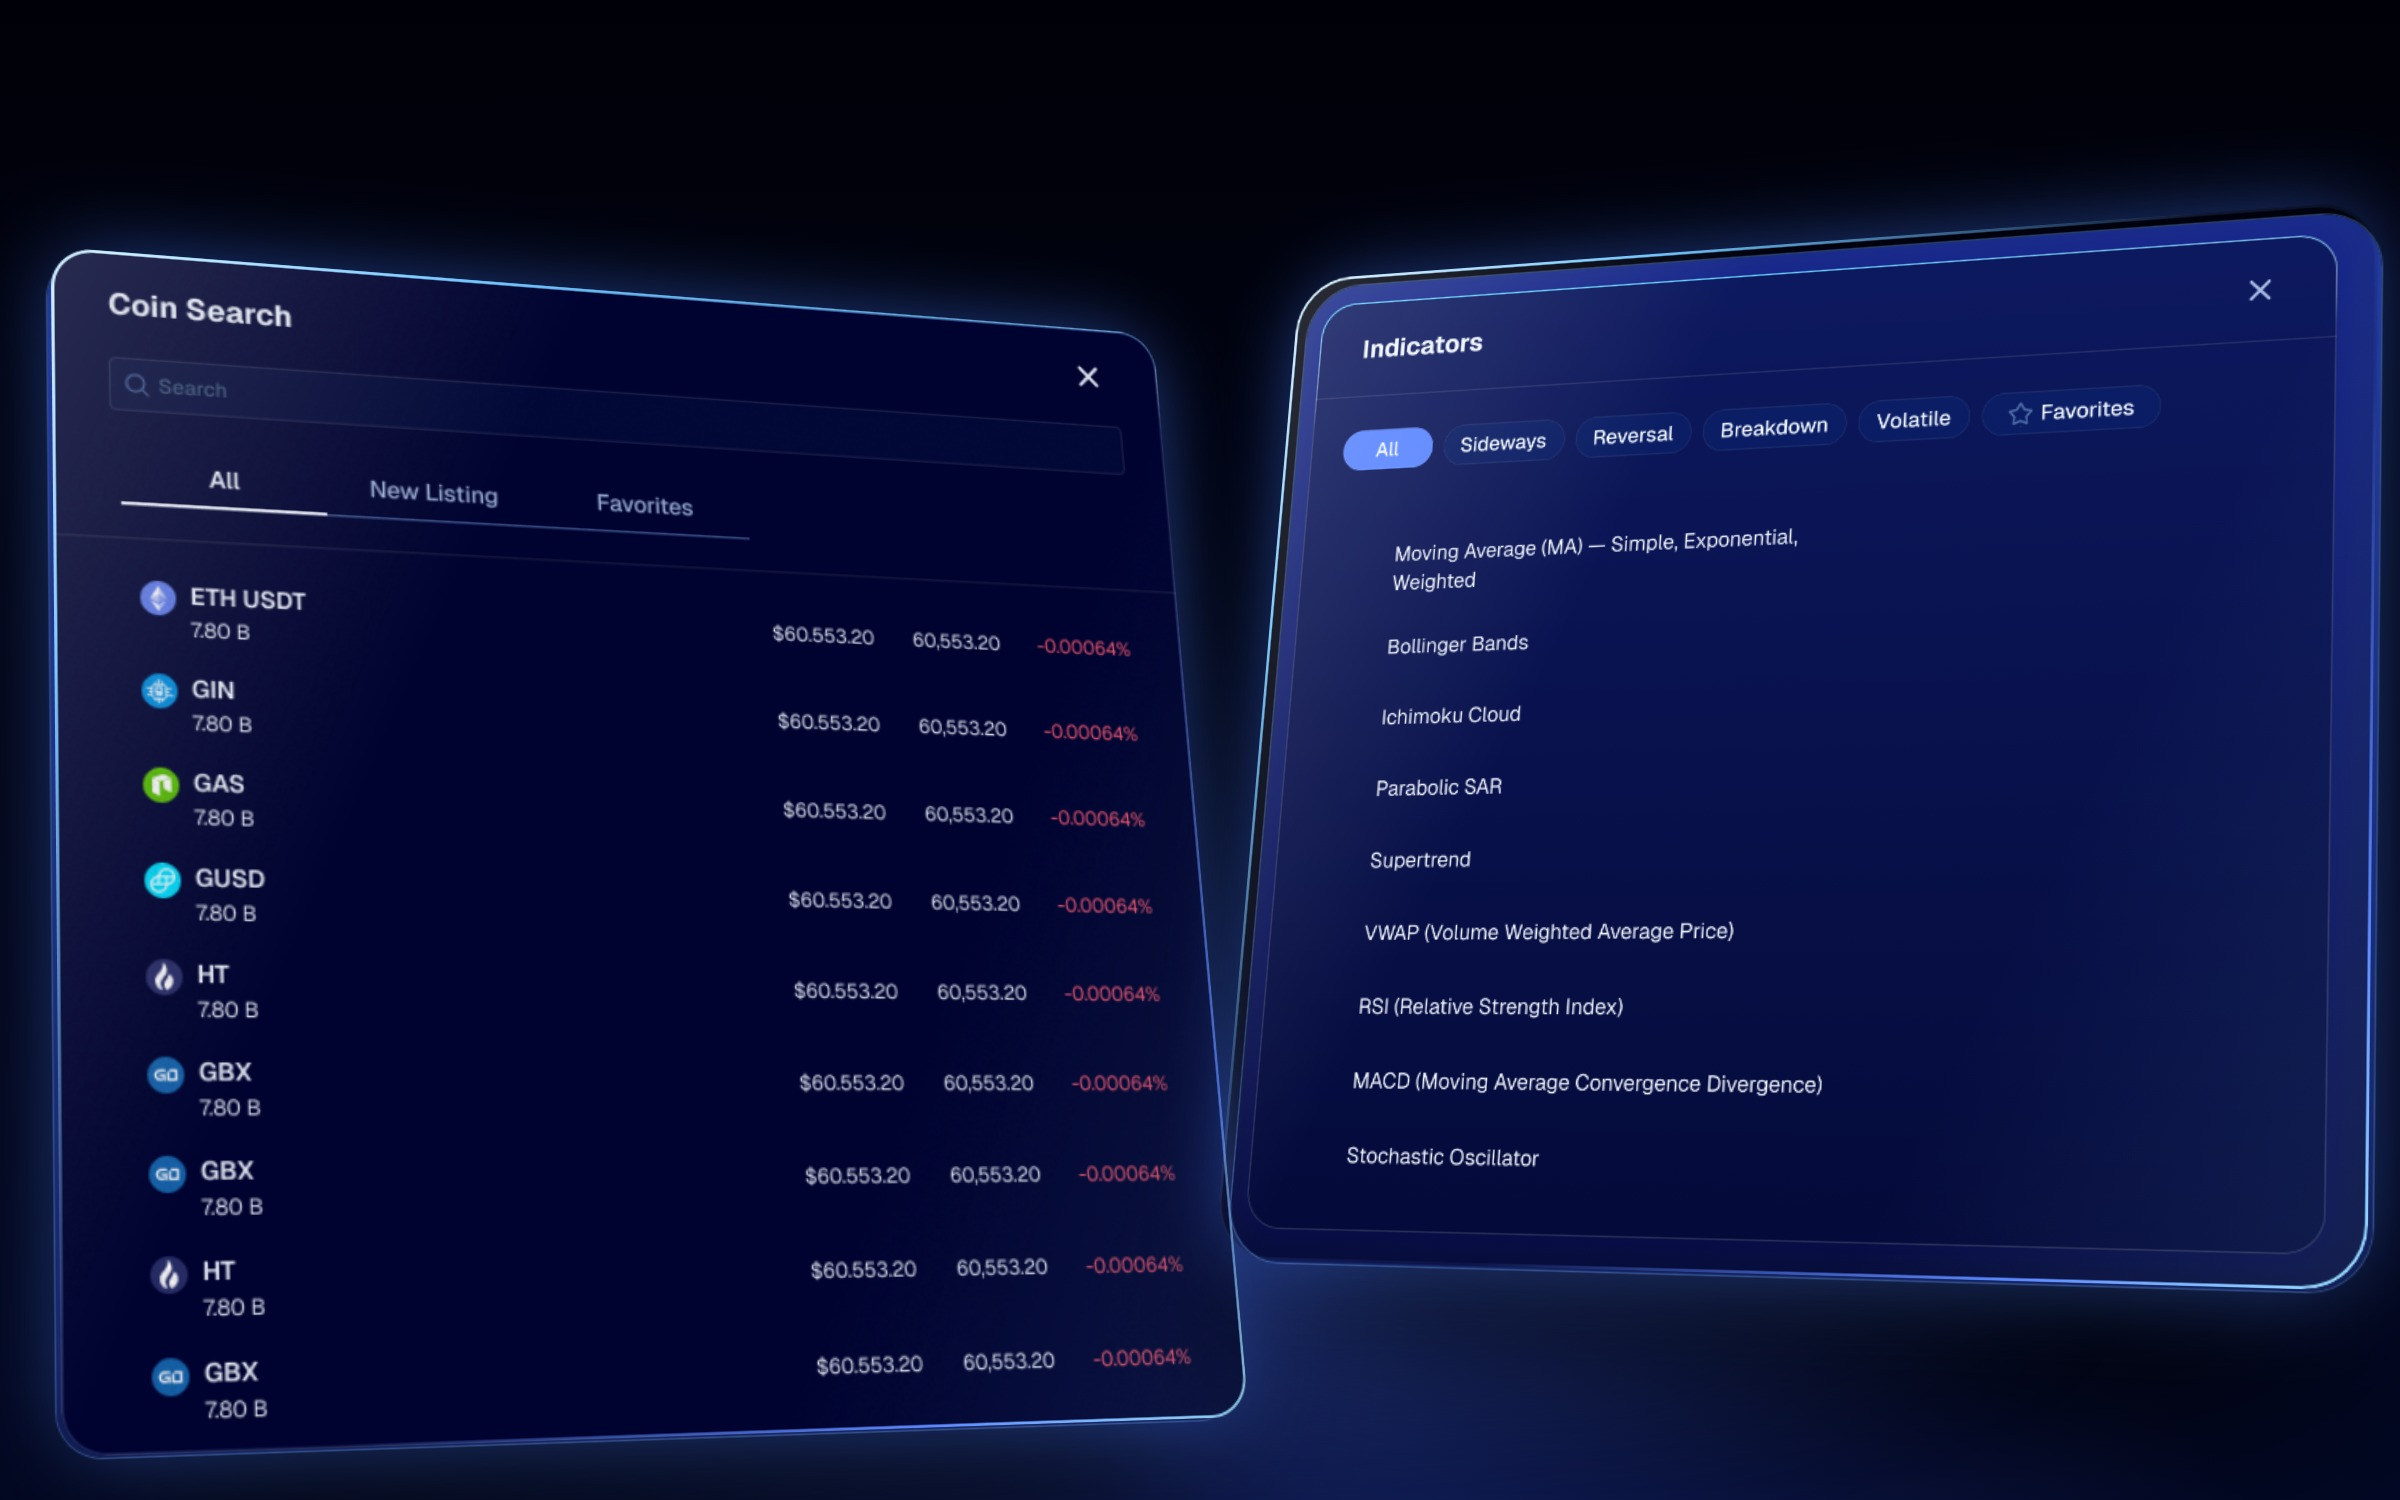
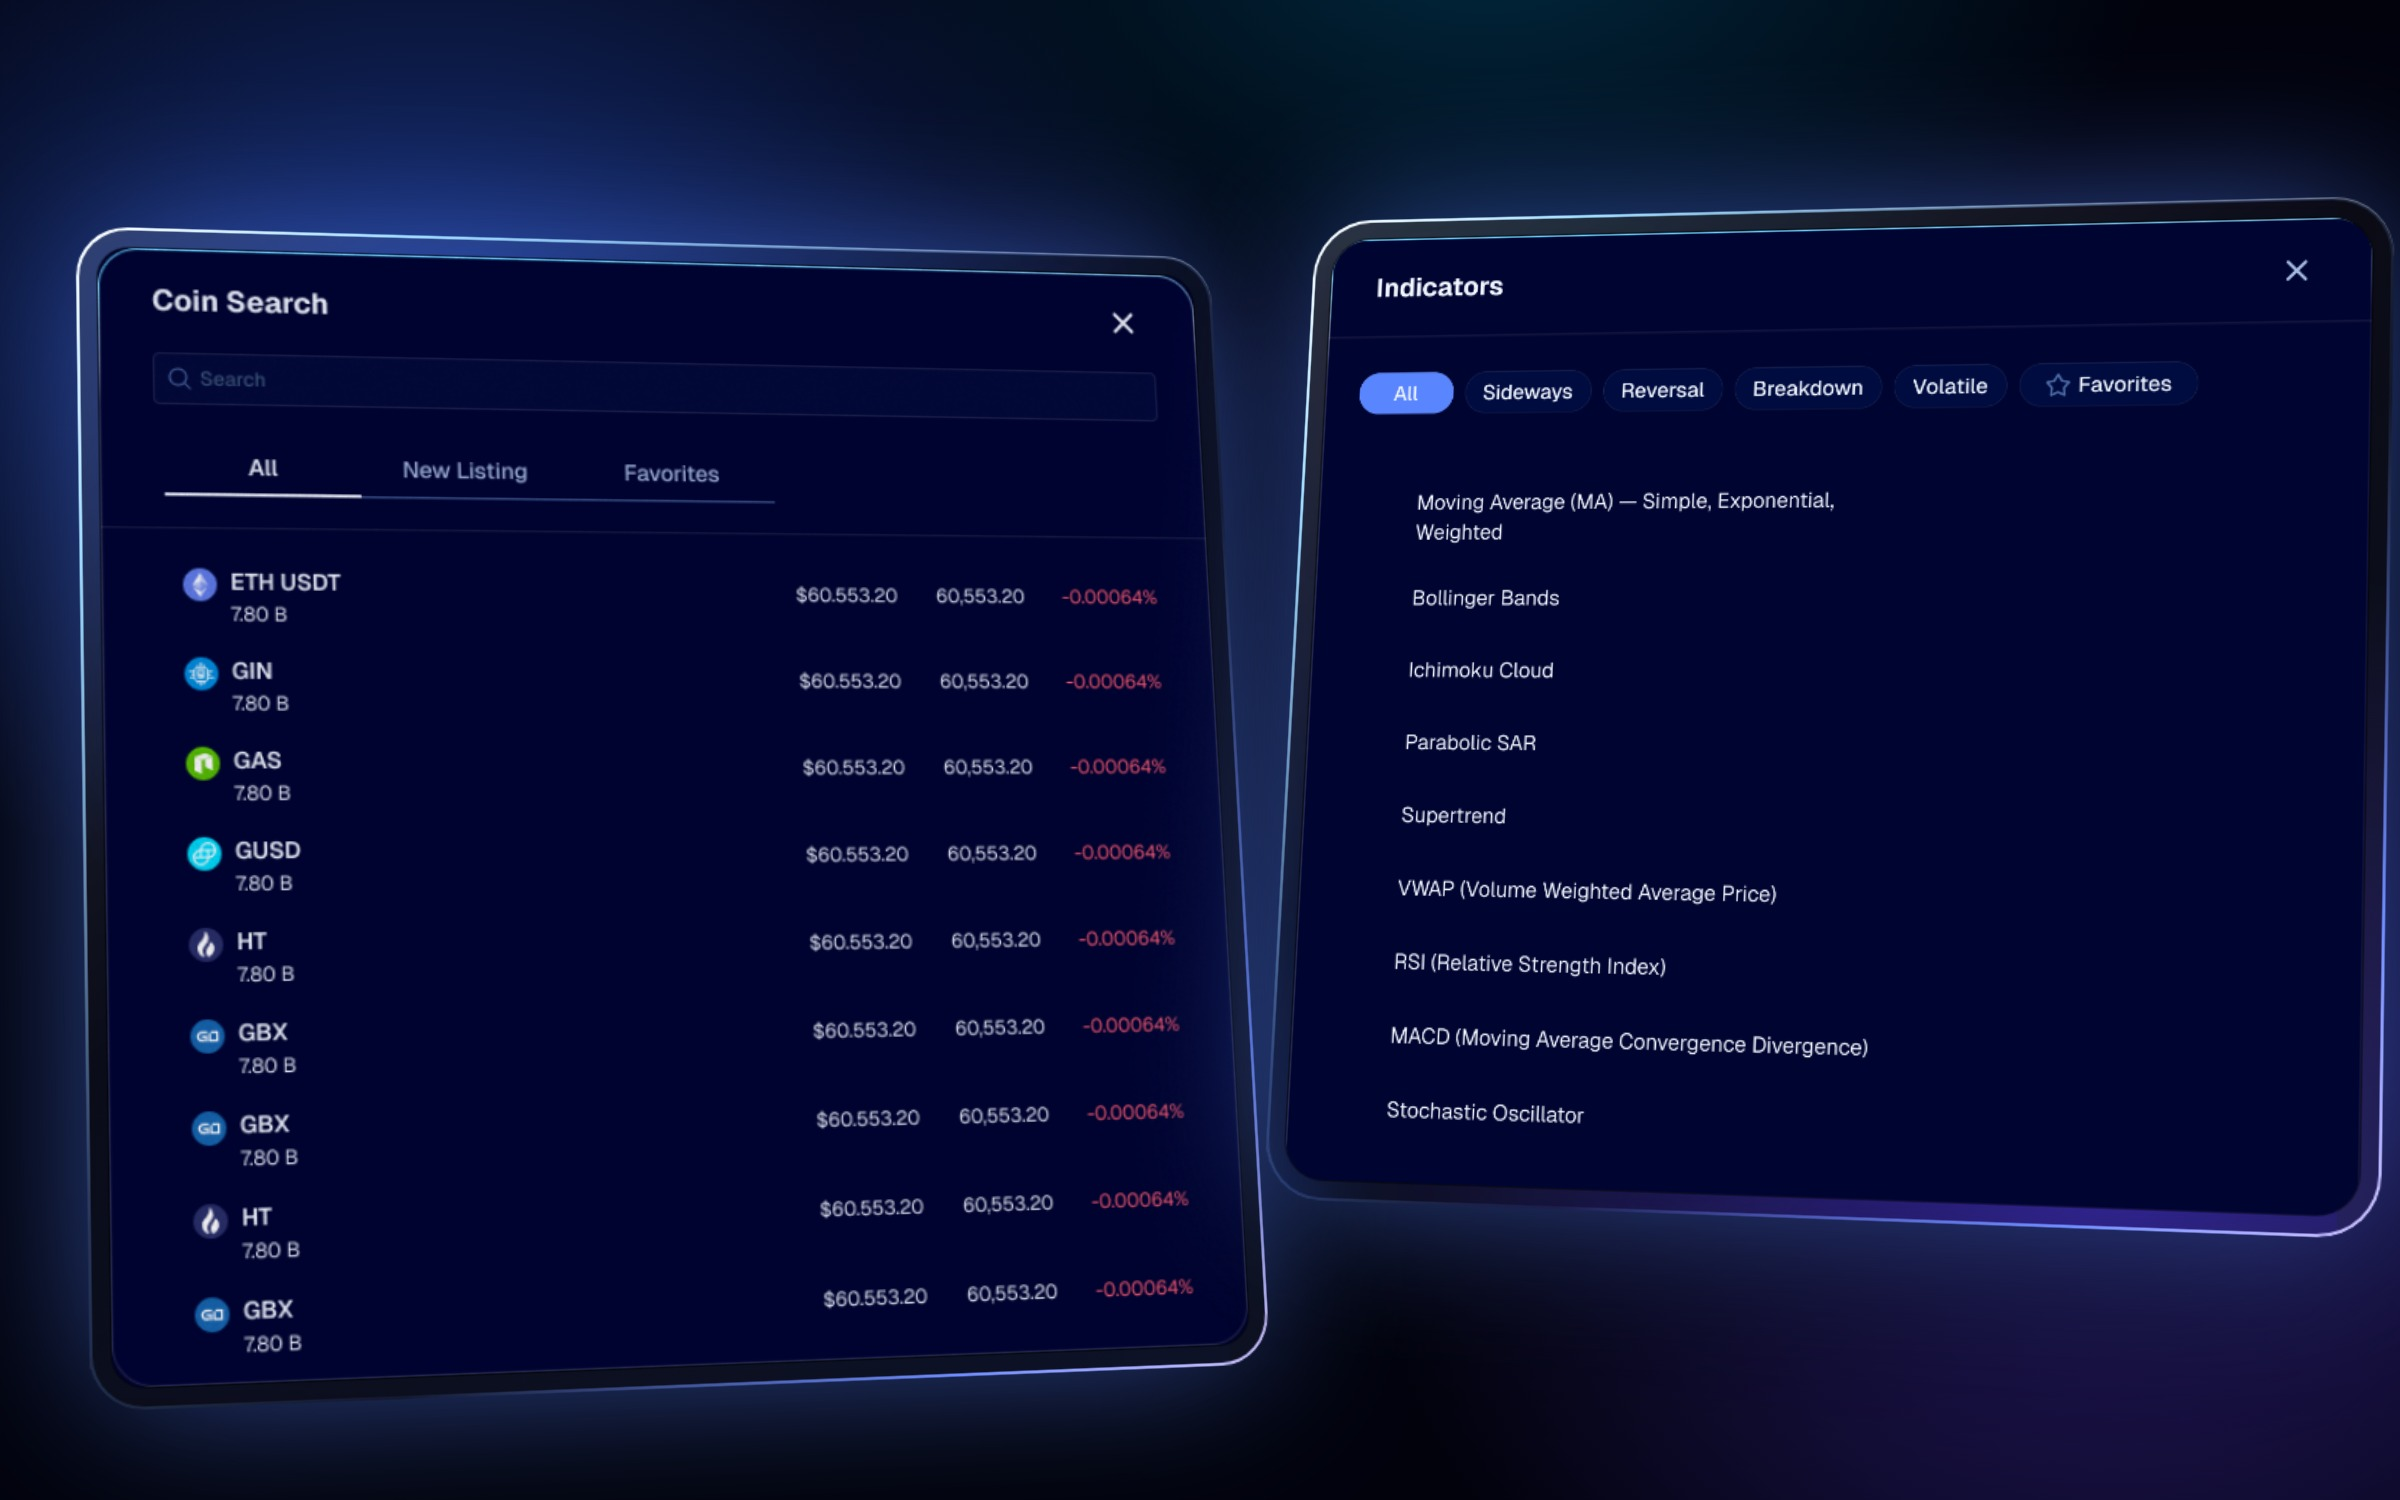
Jaadu modules: no devices; real frames with a glowing glass border on a dark lit ground
Claude-Session: https://claude.ai/code/session_01L48ecgvWMXiCwrAdC3aGTG

diff --git a/scripts/mockups/jaadu/final.html b/scripts/mockups/jaadu/final.html
@@ -26,6 +26,11 @@ body{margin:0;background:#fff}
 .c3 .rim{position:absolute;inset:0;border-radius:inherit;padding:2px;pointer-events:none;background:linear-gradient(135deg,#d6f0ff 0%,#6fc3ff 18%,rgba(89,133,255,.15) 45%,rgba(89,133,255,.05) 60%,#5985ff 85%,#9fe7ff 100%);-webkit-mask:linear-gradient(#000 0 0) content-box,linear-gradient(#000 0 0);-webkit-mask-composite:xor;mask-composite:exclude}
 .c3 .sheen{position:absolute;inset:0;border-radius:inherit;pointer-events:none;background:linear-gradient(115deg,rgba(255,255,255,.16) 0%,rgba(255,255,255,0) 32%,rgba(255,255,255,0) 70%,rgba(130,190,255,.10) 100%)}
 .glowfloor{position:absolute;border-radius:50%;background:radial-gradient(closest-side,rgba(70,110,255,.55),rgba(70,110,255,0));filter:blur(30px)}
+.m.g{background:radial-gradient(760px 560px at 18% 22%,rgba(38,83,207,.55),rgba(38,83,207,0) 70%),radial-gradient(720px 600px at 88% 78%,rgba(98,64,255,.38),rgba(98,64,255,0) 70%),radial-gradient(640px 380px at 62% -4%,rgba(0,190,255,.20),rgba(0,190,255,0) 70%),#01020C}
+.gb{position:absolute;padding:14px;border-radius:36px;background:linear-gradient(145deg,rgba(255,255,255,.16),rgba(255,255,255,.035) 42%,rgba(130,170,255,.09));backdrop-filter:blur(26px) saturate(1.5);box-shadow:inset 0 1px 0 rgba(255,255,255,.4),0 0 110px -12px rgba(80,125,255,.65),0 70px 130px -40px rgba(0,0,0,.95);transform-origin:50% 50%}
+.gb::before{content:'';position:absolute;inset:0;border-radius:inherit;padding:1.6px;pointer-events:none;background:linear-gradient(135deg,#ffffff 0%,#9fdcff 14%,rgba(110,160,255,.28) 42%,rgba(110,160,255,.08) 62%,#6f8dff 86%,#d2c4ff 100%);-webkit-mask:linear-gradient(#000 0 0) content-box,linear-gradient(#000 0 0);-webkit-mask-composite:xor;mask-composite:exclude}
+.gb .in{border-radius:23px;overflow:hidden;background:#00022B;box-shadow:0 0 0 1px rgba(0,0,0,.5)}
+.gb .in img{display:block;width:100%}
 </style>
 <div id="root"></div>
 <script>
@@ -38,24 +43,17 @@ const dev=(cls,src,k,l,t,rot=0,extra='')=>`<div class="dev" style="left:${l}px;t
 const c3=(src,w,l,t,tf,r=28,bg='#00022B')=>`<div class="c3" style="left:${l}px;top:${t}px;width:${w}px;border-radius:${r}px;transform:perspective(2200px) ${tf}"><div class="slab"></div><div class="face" style="background:${bg}"><img src="${R}${src}"></div><div class="rim"></div><div class="sheen"></div></div>`
 const gf=(l,t,w,h)=>`<div class="glowfloor" style="left:${l}px;top:${t}px;width:${w}px;height:${h}px"></div>`
 const S=[]
-const phone=(src,k,l,t)=>`<div class="dev" style="left:${l}px;top:${t}px;transform:scale(${k})"><div class="device device-iphone-14-pro"><div class="device-frame"><img class="device-screen" src="${R}${src}"></div><div class="device-stripe"></div><div class="device-header"></div><div class="device-sensors"></div><div class="device-btns"></div><div class="device-power"></div></div></div>`
-// 1 footprint desktop
-S.push(M('m1',1000,frame('s-footprint.png',1400,88,96)))
-// 2 regime gauge
-S.push(M('m2',900,gf(300,560,1000,260)+c3('c-regime.png',1240,180,150,'rotateX(16deg) rotateY(-14deg) rotateZ(3deg)',56),'b'))
-// 3 overnight discoveries on a MacBook Pro
-S.push(M('m3',1000,`<div class="shadow" style="left:220px;top:860px;width:1160px;height:90px"></div>`+dev('device-macbook-pro device-spacegray','s-overnight.png',1.9,97,90)+`<div class="floor"></div>`,'b'))
-// 4 multi-condition alert, zoomed crop
-S.push(M('m4',820,`<div class="frame" style="left:110px;top:100px;width:1380px;height:900px;overflow:hidden;padding:12px"><div style="width:1380px;height:900px;overflow:hidden;border-radius:19px"><img src="${R}s-alerts.png" style="width:1820px;margin-left:-200px;margin-top:-440px;display:block"></div></div>`))
-// 5 create alert modal
-S.push(M('m5',1000,gf(380,700,900,300)+c3('c-create-alert.png',720,440,70,'rotateX(14deg) rotateY(-16deg) rotateZ(4deg)',30),'b'))
-// 6 chart prompt: phone + desktop states
-S.push(M('m6',1040,gf(700,760,800,260)+phone('s-mobile.png',1.0,150,86)+c3('c-prompt-suggested.png',800,700,170,'rotateX(10deg) rotateY(-22deg) rotateZ(2deg)',28,'transparent')+c3('c-prompt-typing.png',800,740,470,'rotateX(10deg) rotateY(-22deg) rotateZ(2deg)',28,'transparent')+c3('c-prompt-generating.png',800,780,720,'rotateX(10deg) rotateY(-22deg) rotateZ(2deg)',28,'transparent'),'b'))
-// 7 library on a Pro Display XDR
-S.push(M('m7',1000,dev('device-pro-display-xdr','s-library.png',2.1,128,70)))
-// 8 trader's diary
-S.push(M('m8',1000,gf(420,700,800,300)+c3('c-diary.png',700,450,60,'rotateX(20deg) rotateY(18deg) rotateZ(-5deg)',36),'b'))
-// 9 indicators + coin search
-S.push(M('m9',1000,gf(200,700,1200,300)+c3('c-coin-search.png',800,40,170,'rotateX(14deg) rotateY(18deg) rotateZ(-3deg)',28)+c3('c-indicators.png',780,800,140,'rotateX(14deg) rotateY(-18deg) rotateZ(3deg)',40,'transparent'),'b'))
+const gs=(src,w,l,t,tf='',r=36,inner='')=>`<div class="gb" style="left:${l}px;top:${t}px;width:${w}px;border-radius:${r}px;${tf?`transform:perspective(2400px) ${tf}`:''}"><div class="in" style="border-radius:${r-13}px">${inner||`<img src="${R}${src}">`}</div></div>`
+// screens: flat, large, cropped, glowing glass border
+S.push(M('m1',1000,gs('s-footprint.png',1380,96,96),'g'))
+S.push(M('m3',1000,gs('s-overnight.png',1320,200,110),'g'))
+S.push(M('m4',840,gs('',1360,120,110,'',36,`<div style="height:760px;overflow:hidden"><img src="${R}s-alerts.png" style="width:1800px;max-width:none;margin-left:-196px;margin-top:-432px"></div>`),'g'))
+S.push(M('m7',1000,gs('s-library.png',1320,-60,110),'g'))
+// components: zoomed, slight tilt
+S.push(M('m2',820,gs('c-regime.png',1180,210,150,'rotateX(10deg) rotateY(-10deg) rotateZ(2deg)',48),'g'))
+S.push(M('m5',1060,gs('c-create-alert.png',600,500,56,'rotateX(8deg) rotateY(-12deg) rotateZ(3deg)',34),'g'))
+S.push(M('m6',1100,gs('s-mobile.png',430,170,90,'rotateX(6deg) rotateY(12deg) rotateZ(-3deg)',56)+gs('c-prompt-suggested.png',760,760,170,'rotateX(6deg) rotateY(-12deg) rotateZ(2deg)',30)+gs('c-prompt-typing.png',760,790,470,'rotateX(6deg) rotateY(-12deg) rotateZ(2deg)',30)+gs('c-prompt-generating.png',760,820,730,'rotateX(6deg) rotateY(-12deg) rotateZ(2deg)',30),'g'))
+S.push(M('m8',1000,gs('c-diary.png',640,480,70,'rotateX(8deg) rotateY(12deg) rotateZ(-3deg)',38),'g'))
+S.push(M('m9',1000,gs('c-coin-search.png',760,60,150,'rotateX(8deg) rotateY(12deg) rotateZ(-2deg)',34)+gs('',720,840,130,'rotateX(8deg) rotateY(-12deg) rotateZ(2deg)',40,`<div style="height:651px;overflow:hidden"><img src="${R}c-indicators.png" style="width:767px;max-width:none;margin-left:-21px;margin-top:-21px"></div>`),'g'))
 document.getElementById('root').innerHTML=S.join('')
 </script>
